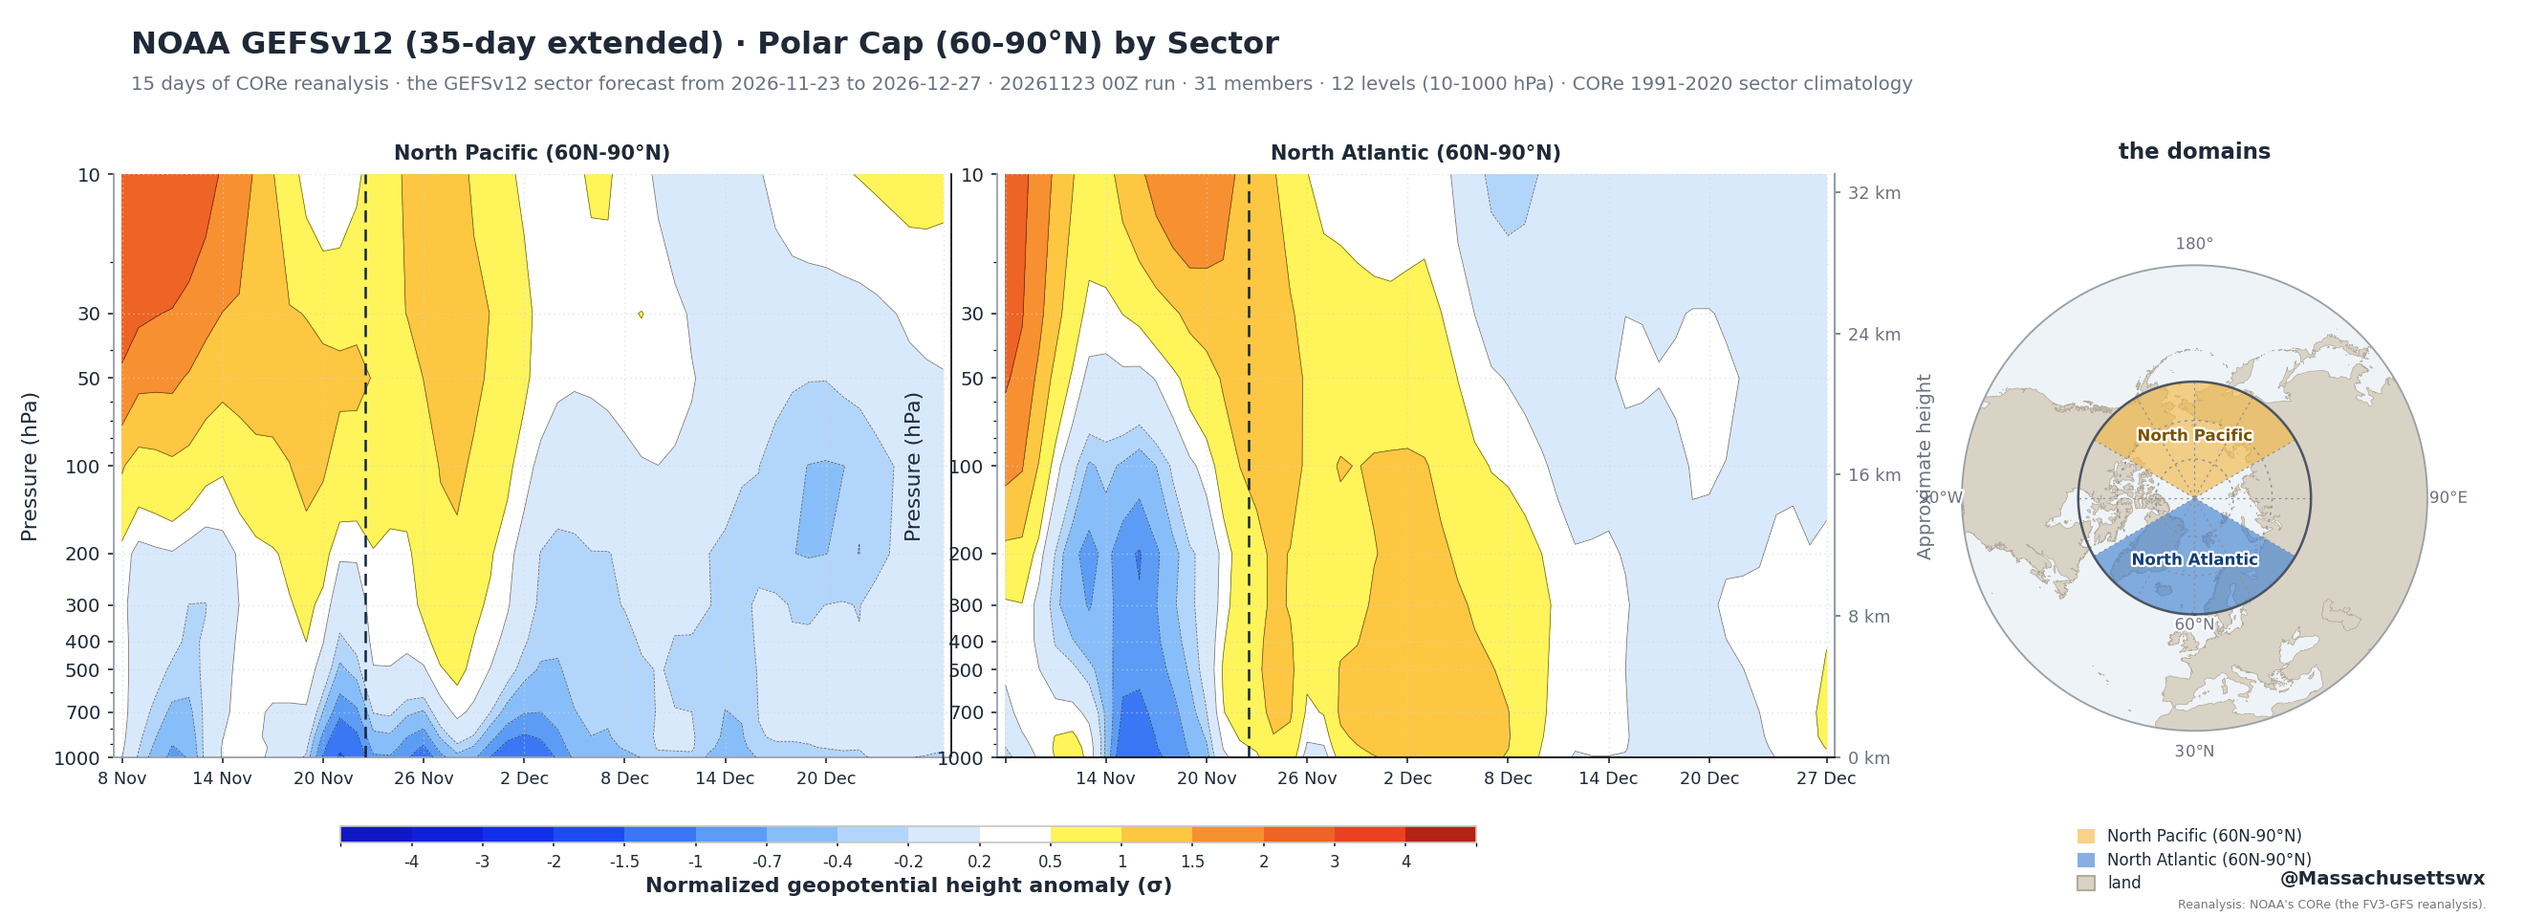
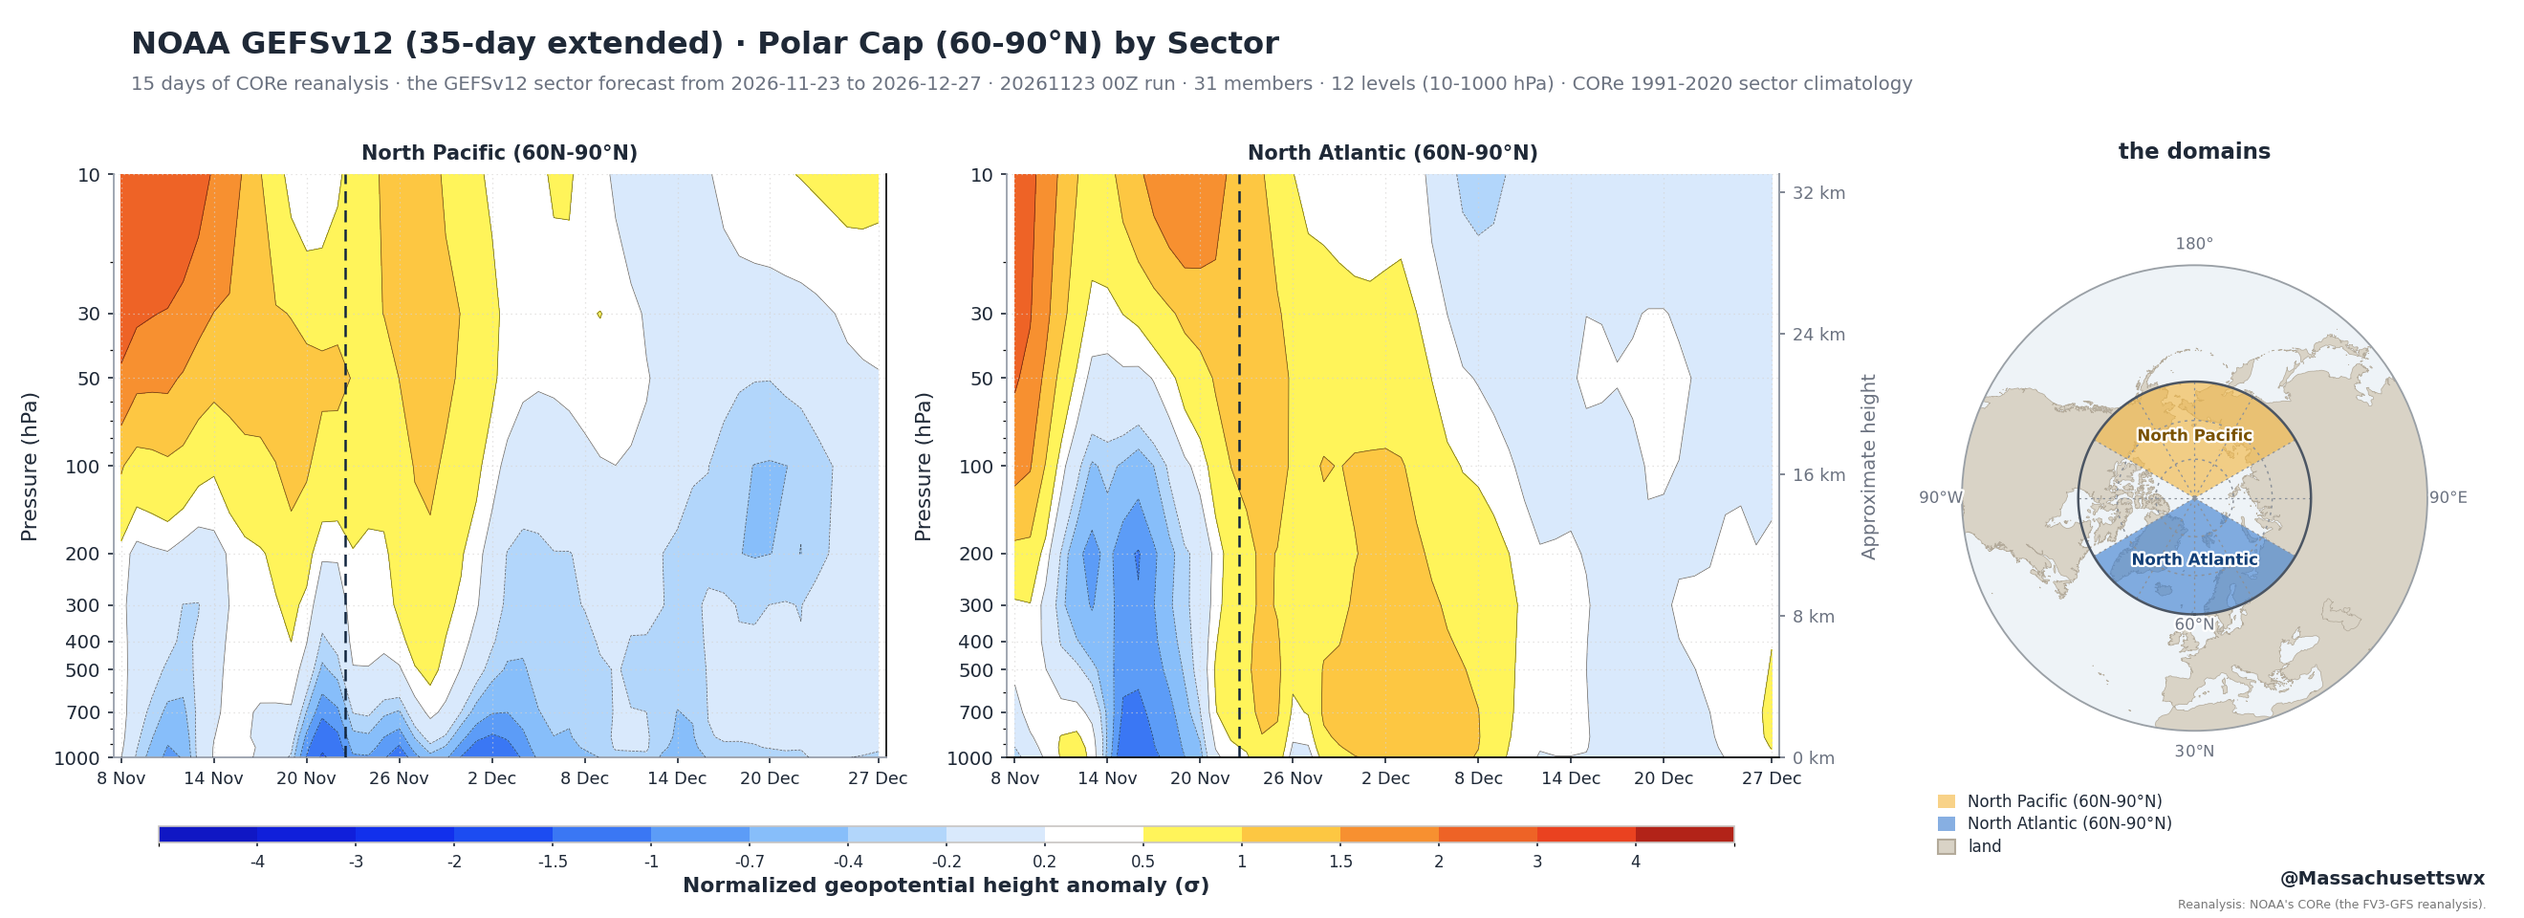
the polar cap: the EC46's by-sector chart, and the sector chart tidied

Changed region(s): [[0.0311, 0.1562, 0.7765, 0.9688], [0.7455, 0.8438, 0.9318, 0.9688], [0.7144, 0.6562, 0.7455, 0.6875]]

diff --git a/tools/publish_polar_ec46.py b/tools/publish_polar_ec46.py
@@ -75,9 +75,14 @@ OPERATIONAL_REPO = ("massachusettswx-weather", "seasonal-graphics")
 # the one product.  A constant, not a record of the last run.
 MODEL_ID = "ec46"
 NAME = "ECMWF EC46"
-# the one picture that makes up the product: the EC46 has no by-sector
-# chart, so the POLARSECTORS registry is left exactly as it is
+# the two pictures that make up the product: the polar-cap section and
+# the same section split into the North Pacific and the North Atlantic.
+# The EC46's by-sector chart was drawn on 24 Nov 2026 - the ECMWF's
+# sub-seasonal serves ten pressure levels and the reanalysis twelve, so
+# the chart is drawn on the ten they share - and the POLARSECTORS
+# registry now carries it.
 CHART = "polar_cap_ec46.png"
+SECTOR_CHART = "polar_sectors_ec46.png"
 # the EC46's window is 46 days, and the chart carries one point a day
 EXPECTED_DAYS = 45
 # the pages that carry the main registry (the snowfall page reads the
@@ -150,8 +155,13 @@ def add_inline(text, name, entry, version):
             e["init"] = entry["init"]
         if name == "POLARMODELS":
             e["file"] = "assets/polar/%s?v=%s" % (CHART, version)
+        if name == "POLARSECTORS":
+            e["file"] = "assets/polar/%s?v=%s" % (SECTOR_CHART, version)
         if isinstance(e.get("polar"), dict):
             e["polar"]["file"] = "assets/polar/%s?v=%s" % (CHART, version)
+        if isinstance(e.get("polar_sectors"), dict):
+            e["polar_sectors"]["file"] = ("assets/polar/%s?v=%s"
+                                          % (SECTOR_CHART, version))
         if e == cur:
             return text
         obj[MODEL_ID] = e
@@ -161,8 +171,15 @@ def add_inline(text, name, entry, version):
         e = {"id": MODEL_ID, "name": NAME,
              "file": "assets/polar/%s?v=%s" % (CHART, version),
              "caption": (entry.get("polar") or {}).get("caption", "")}
+    if name == "POLARSECTORS":
+        e = {"id": MODEL_ID, "name": NAME,
+             "file": "assets/polar/%s?v=%s" % (SECTOR_CHART, version),
+             "caption": (entry.get("polar_sectors") or {}).get("caption", "")}
     if isinstance(e.get("polar"), dict):
         e["polar"]["file"] = "assets/polar/%s?v=%s" % (CHART, version)
+    if isinstance(e.get("polar_sectors"), dict):
+        e["polar_sectors"]["file"] = ("assets/polar/%s?v=%s"
+                                      % (SECTOR_CHART, version))
     # the entry goes in where the builder would have put it: the polar-only
     # models are appended, and the EC46 sits in front of the GEFSv12 (the
     # builder appends the polar charts in the order of their file names).
@@ -313,6 +330,13 @@ def main():
     if not os.path.exists(drawn):
         say("   %s has no %s - NOTHING IS CHANGED." % (src, CHART))
         return 2
+    # the by-sector chart: the EC46 has one now (24 Nov 2026), and the
+    # page's "By sector" control is offered for a model that has it
+    drawn_sector = os.path.join(src, "docs", "assets", "polar", SECTOR_CHART)
+    if not os.path.exists(drawn_sector):
+        say("   %s has no %s - the by-sector chart would be missing."
+            % (src, SECTOR_CHART))
+        return 2
 
     # the version: a fresh one, so the browser fetches the new picture
     oldver = ""
@@ -323,6 +347,7 @@ def main():
     # the plan
     say("   it would put on the target:")
     say("     docs/assets/polar/%-28s (%s)" % (CHART, md5(drawn)))
+    say("     docs/assets/polar/%-28s (%s)" % (SECTOR_CHART, md5(drawn_sector)))
     say("     docs/data/models.json          the %s entry" % MODEL_ID)
     say("     docs/data/models_public.json   the same entry")
     for f in REGISTRY_PAGES:
@@ -339,7 +364,8 @@ def main():
     # else's work, and this change is not mixed with it
     st = git(target, "status", "--porcelain")
     dirty = [l for l in st.stdout.strip().split("\n") if l.strip()]
-    ours = ("docs/assets/polar/%s" % CHART, "docs/data/models.json",
+    ours = ("docs/assets/polar/%s" % CHART,
+            "docs/assets/polar/%s" % SECTOR_CHART, "docs/data/models.json",
             "docs/data/models_public.json") + \
         tuple(os.path.join("docs", f) for f in REGISTRY_PAGES) + \
         (os.path.join("docs", HOME_PAGE),)
@@ -389,6 +415,11 @@ def main():
             if t3 is None:
                 say("   %s carries no polar registry - NOTHING IS CHANGED." % f)
                 return 2
+            t3 = add_inline(t3, "POLARSECTORS", e, version)
+            if t3 is None:
+                say("   %s carries no by-sector registry - NOTHING IS CHANGED."
+                    % f)
+                return 2
             t3 = add_picker_option(t3)
             if t3 is None:
                 say("   %s has no polar picker - NOTHING IS CHANGED." % f)
@@ -434,6 +465,11 @@ def main():
     if os.path.realpath(drawn) != os.path.realpath(dst):
         shutil.copyfile(drawn, dst)
     written.append(os.path.join("docs", "assets", "polar", CHART))
+    dsts = os.path.join(docs, "assets", "polar", SECTOR_CHART)
+    os.makedirs(os.path.dirname(dsts), exist_ok=True)
+    if os.path.realpath(drawn_sector) != os.path.realpath(dsts):
+        shutil.copyfile(drawn_sector, dsts)
+    written.append(os.path.join("docs", "assets", "polar", SECTOR_CHART))
     json.dump(newreg, open(regp, "w"), indent=1)
     written.append(os.path.join("docs", "data", "models.json"))
     if newpub is not None:

diff --git a/plot_polar_sectors.py b/plot_polar_sectors.py
@@ -67,7 +67,7 @@ def load_sector_clim():
         if not os.path.exists(path):
             continue
         d = np.load(path, allow_pickle=True)
-        if "sector_data" not in d:
+        if "sector_data" not in d or "levels" not in d:
             continue
         out = {}
         for entry in d["sector_data"]:
@@ -76,11 +76,11 @@ def load_sector_clim():
                                       np.array(v["sigma"], float))
                              for m, v in months.items()}
         if out:
-            return out
+            return out, [int(x) for x in d["levels"]]
     nat = load_clim_native()
     if nat is not None and nat[1]:
-        return nat[1]
-    return None
+        return nat[1], [int(x) for x in (nat[0][1] if nat[0] else [])]
+    return None, []
 
 
 def load_recent_sectors():
@@ -108,8 +108,9 @@ def load_recent_sectors():
         out = {}
         for i, sec in enumerate(names):
             out[sec] = np.asarray(sd[i], float)
-        return times, out, product
-    return [], {}, "ERA5"
+        rlevs = [int(x) for x in (d["levels"] if "levels" in d else [])]
+        return times, out, product, rlevs
+    return [], {}, "ERA5", []
 
 
 def main(tag="gefsv12", label="NOAA GEFSv12", short=None, rebase="forecast"):
@@ -126,7 +127,7 @@ def main(tag="gefsv12", label="NOAA GEFSv12", short=None, rebase="forecast"):
     if not rec or not rec.get("sectors"):
         print("   the %s series carries no sector means" % tag)
         return None
-    clim = load_sector_clim()
+    clim, clim_levels = load_sector_clim()
     if not clim:
         print("   no sector climate yet - the CDS monthly means are still "
               "being fetched")
@@ -151,10 +152,31 @@ def main(tag="gefsv12", label="NOAA GEFSv12", short=None, rebase="forecast"):
 
     # The analysis in front of it, from the same reanalysis the cap section
     # is measured with.
-    rt, rv, _ana_name = load_recent_sectors()
+    rt, rv, _ana_name, rlevs = load_recent_sectors()
     rday = {}
     for i, t in enumerate(rt):
         rday.setdefault(t[:10], i)
+
+    # THE LEVELS THE THREE SIDES SHARE.  The ECMWF's sub-seasonal EC46
+    # serves ten levels and the reanalysis and the climate twelve, so the
+    # chart is drawn on the ten they all have - the same rule the cap
+    # section follows, so the two charts can be read against each other.
+    own_levels = list(levels)
+    common = [l for l in own_levels if (not rlevs or l in rlevs)
+              and (not clim_levels or l in clim_levels)]
+    if not common:
+        print("   the %s section has no level the three sides share" % tag)
+        return None
+    if len(common) != len(own_levels):
+        print("   the %s section is drawn on %d of the %d levels"
+              % (tag, len(common), len(own_levels)))
+    mkeep = [own_levels.index(l) for l in common]
+    rkeep = [rlevs.index(l) for l in common] if rlevs else list(mkeep)
+    levels = common
+    for name in list(fc.keys()):
+        fc[name] = (fc[name][0], fc[name][1][:, mkeep])
+    for name in list(rv.keys()):
+        rv[name] = rv[name][:, rkeep]
 
     first = min((v[0][0] for v in fc.values() if len(v[0])), default=None)
     ana_days = sorted(d for d in rday if first and d < first)[-ANA_DAYS:]
@@ -185,9 +207,11 @@ def main(tag="gefsv12", label="NOAA GEFSv12", short=None, rebase="forecast"):
         # at every month boundary and the step draws a seam across the
         # chart
         mlist = sorted(clim[name])
-        mmean = np.array([np.asarray(clim[name][m][0], float)[:len(levels)]
+        ccols = ([clim_levels.index(l) for l in levels]
+                 if clim_levels else list(range(len(levels))))
+        mmean = np.array([np.asarray(clim[name][m][0], float)[ccols]
                           for m in mlist])
-        msig = np.array([np.asarray(clim[name][m][1], float)[:len(levels)]
+        msig = np.array([np.asarray(clim[name][m][1], float)[ccols]
                          for m in mlist])
         # A SEASONAL model's mean state is not the observed climate, and by
         # the far end of a seven-month run it is thousands of m2/s2 below it
@@ -196,9 +220,9 @@ def main(tag="gefsv12", label="NOAA GEFSv12", short=None, rebase="forecast"):
         # the model's OWN hindcast climate, exactly as the cap section
         # does it, so the two charts stay in step.
         corr, note = polar_rebase.correction(
-            all_days, levels, {m: np.asarray(clim[name][m][0], float)[:len(levels)]
-                               for m in mlist}, mlist, sector=name, mode=rebase,
-            run=rec.get("run") or "")
+            all_days, levels,
+            {m: np.asarray(clim[name][m][0], float)[ccols] for m in mlist},
+            mlist, sector=name, mode=rebase, run=rec.get("run") or "")
         if corr is not None:
             vals = vals.copy()
             if rebase == "both":

diff --git a/polar_cap.py b/polar_cap.py
@@ -796,9 +796,17 @@ def plot_domain_map(ax):
         mpatches.Patch(facecolor="#d9d3c6", edgecolor="#b3aa9a",
                        label="land"),
     ]
-    leg = ax.legend(handles=handles, loc="lower center",
-                    bbox_to_anchor=(0.5, -0.22), fontsize=8.0, frameon=False,
-                    handlelength=1.1, handleheight=1.0, labelspacing=0.40)
+    # THE KEYS GO UNDER THE MAP, CLEAR OF THE WATERMARK AND OF THE
+    # ECMWF CREDIT.  Both of those belong in the bottom right - the ECMWF
+    # because it asks for its credit there, the watermark because that is
+    # the house's place for it - and the keys used to be printed over
+    # them.  The sectors are named on the map itself, so the keys are
+    # only a key.
+    leg = ax.legend(handles=handles, loc="lower left",
+                    bbox_to_anchor=(0.762, 0.052),
+                    bbox_transform=ax.figure.transFigure,
+                    fontsize=8.0, frameon=False, ncol=1,
+                    handlelength=1.1, handleheight=1.0, labelspacing=0.34)
     for t in leg.get_texts():
         t.set_color(C_TEXT)
     return ax
@@ -918,8 +926,14 @@ def plot_sector_sections(times, sectors, levels, out_path, title, subtitle,
     npan = len(names)
     map_w = 0.225
     map_x = 1.0 - 0.018 - map_w
-    panel_right = map_x - 0.030
-    gap = 0.018
+    # THE GAP BETWEEN THE PANELS IS WIDE ENOUGH FOR A DATE LABEL.  The
+    # labels used to be dropped at the inner edges, which made the two
+    # panels look as if they covered different periods - the left one
+    # appeared to end on 27 December and the right one to begin on 15
+    # November - when in fact every panel covers the same days.  Both
+    # panels now carry every date.
+    panel_right = map_x - 0.052
+    gap = 0.048
     left0 = 0.045
     width = (panel_right - left0 - (npan - 1) * gap) / npan
     axes = []
@@ -982,15 +996,10 @@ def plot_sector_sections(times, sectors, levels, out_path, title, subtitle,
                 del idx[j + 1]
         ax.set_xticks(idx)
         labs = [_short_date(times[k]) for k in idx]
-        # A tick label centred on its tick hangs half outside the panel, so
-        # the last date of one panel ran into the first date of the next.
-        # The panels share one time axis, so the outer panels carry the
-        # start and the end date and the inner ones leave them out.  The
-        # TICKS stay on every panel, so the gridlines still line up.
-        if i > 0:
-            labs[0] = ""
-        if i < npan - 1:
-            labs[-1] = ""
+        # EVERY PANEL CARRIES EVERY DATE.  The panels share one time
+        # axis, and a reader who has to work out which panel's axis is
+        # offset cannot read the two sectors against each other - which
+        # is the whole reason for drawing them side by side.
         ax.set_xticklabels(labs, fontsize=8.5, color=C_TEXT)
         ax.set_xlim(-0.5, n - 0.5)
 
@@ -1042,7 +1051,13 @@ def plot_sector_sections(times, sectors, levels, out_path, title, subtitle,
 
     sm = ScalarMappable(norm=norm_c, cmap=cmap)
     sm.set_array([])
-    cax = fig.add_axes([0.135, 0.082, 0.45, 0.018])
+    # THE COLOUR BAR UNDER THE PANELS, not floating in the middle of the
+    # bottom band: it belongs to the two panels above it, and it is drawn
+    # from the first panel's left edge to the last one's right edge so
+    # that it reads as one scale for both of them.
+    bar_x = left0 + 0.018
+    bar_w = (panel_right - left0) - 0.036
+    cax = fig.add_axes([bar_x, 0.082, bar_w, 0.018])
     cb = fig.colorbar(sm, cax=cax, orientation="horizontal",
                       boundaries=edges, ticks=edges[1:-1], extend="neither",
                       spacing="uniform")
@@ -1052,7 +1067,8 @@ def plot_sector_sections(times, sectors, levels, out_path, title, subtitle,
     cb.outline.set_edgecolor("#c8c5c2")
     cb.outline.set_linewidth(0.8)
     cb.ax.tick_params(length=2, colors=C_TEXT)
-    fig.text(0.36, 0.034, "Normalized geopotential height anomaly (\u03c3)",
+    fig.text(bar_x + bar_w / 2.0, 0.034,
+             "Normalized geopotential height anomaly (\u03c3)",
              fontsize=10.5, ha="center", va="center", fontweight="bold",
              color=C_TEXT)
 

diff --git a/tools/test_export_map.py b/tools/test_export_map.py
@@ -202,6 +202,17 @@ def main():
         EX.write_index(tags, state)
         with open(tags_p, "w") as f:
             f.write(tags_backup)
+        # THE SYNTHETIC RUN'S ARCHIVE GOES TOO: the exporter now keeps a
+        # copy of every run under docs/data/maps/<tag>/<init>/, and a test
+        # model left in the published data directory is a picker entry
+        # that points at a model the site does not have.
+        adir = os.path.join(EX.OUT, "maps", TAG)
+        if os.path.isdir(adir):
+            shutil.rmtree(adir)
+            up = os.path.dirname(adir)
+            if os.path.isdir(up) and not os.listdir(up):
+                os.rmdir(up)
+        EX.write_archive_index()
         print("cleaned up")
 
     print("")

diff --git a/notes/STATE.md b/notes/STATE.md
@@ -651,6 +651,78 @@ site (GEFSv12, EC46) - the live PNGs are byte for byte the repo's.
 the polar cap box) - to size the ERA5-vs-GEFS gap with real numbers
 before the owner is asked to choose.  The poller is
 `/workspace/poll_era5.py`; the result lands in `/workspace/era5_recent.grib`.
+**THAT JOB FAILED** at 10:15Z without a stated reason; a smaller retry
+(15-18 Nov) is job `7aaad44b-11f4-4d7c-8a34-4de3c81878d3`, accepted
+19:07Z.  The CDS's queue is slow - the seasonal job queued at 18:46Z
+was still "accepted" half an hour later.
+
+## The maps page: an ARCHIVE picker, and comparing two runs (24 Nov 2026, 19:10 UTC)
+
+**THE OWNER'S WORD:** *"add an archives dropdown selection that users
+can go back to previous runs and compare to the current"*.
+
+**THE FEATURE IS ON THE DEVELOPMENT SITE** (`/maps.html`): a picker
+labelled **Compare with**, beside the model picker.  It lists the runs
+that model has - the current one first, then the earlier ones - and
+choosing an earlier one draws **the change between the two runs**: the
+current run minus that run, over the same valid month.
+
+* **THE DIFFERENCE IS COMPUTED IN THE BROWSER**, not by a second texture
+  and a new shader mode: the two rasters are fetched, the difference is
+  worked out in the field's own units and uploaded as an ordinary field.
+  The renderer needs no change at all for the comparison itself.
+* **THE SCALES.**  The anomaly's difference is on **+-2 sigma**; the
+  totals' difference is on **+-5 inches on a signed log scale**, because
+  a snowfall difference is nearly always a few hundredths of an inch and
+  a linear scale would show nothing.
+* **THE COLOUR TABLE.**  The comparison is drawn with the **anomaly's
+  diverging table** (brown = less snow than the earlier run said, teal =
+  more), NOT with the totals' ladder - whose deep end is a magenta that
+  means "a lot of snow", not "a lot of change".  This was a real bug:
+  the map and its own legend disagreed until the mode was fixed.
+* **THE MONTHS ARE MATCHED BY THEIR LABEL, NOT THEIR INDEX.**  The
+  November run's first month is December 2026 and the October run's
+  first month is November 2026, so the same index is a different month.
+  The two runs overlap from the second month of the older one.
+* **THE RUN TOTAL CANNOT BE COMPARED** (one run's total covers its own
+  months and the other's covers a different set), so choosing an archive
+  moves the map to the first month the two runs share.
+
+**THE ARCHIVE ITSELF:**
+* `export_snow_map.py` now writes `archive_run()` and
+  `write_archive_index()`: every export keeps a copy of the run's
+  manifest and rasters under `docs/data/maps/<tag>/<init>/`, and
+  `docs/data/maps_index.json` lists every run - the current one (its
+  manifest at the top of `docs/data`) and the archived ones.
+* `tools/build_map_archive.py` builds an archived run from an EARLIER
+  init: it fetches that init from the C3S archive (the same route the
+  pipeline uses), takes the model's own hindcast climate from the run on
+  disk (the climate does not change from one init to the next), and
+  exports it against a shadow tree (`MAP_MDIR`, `MAP_OUT`, `MAP_STATE`
+  point the exporter at it).
+* **THE FIRST ARCHIVED RUN IS THE UKMO's OCTOBER 2026 INIT** - built,
+  published and working on the development site.
+
+**THE NARROW PATH:** `tools/publish_maps_page.py` (the general publisher
+is off, and the maps page is part of the general build, so it needed a
+path of its own).  It carries the page, the three scripts, the model
+index, the index of runs and the archive - and nothing else.  **THE
+OPERATIONAL SITE HAS NO MAPS PAGE AT ALL** (404), so nothing there was
+touched and nothing there needs the owner's word for this feature.
+
+**THE TWO TRAPS OF THIS AFTERNOON:**
+1. **A NARROW PUBLISHER'S FILE LIST MUST BE IN THE TARGET'S PATHS.**
+   The first version used the source's own paths and put a copy of the
+   page at the TOP of the repository (`maps.html`, `data/maps/**`).
+   The list is relative to the source (`docs/`) and the staging is
+   relative to the target (`docs/`) - and the source and the target can
+   be the SAME tree (the sandbox mounts one tree under two paths), so
+   the copy is skipped when `os.path.realpath` says they are the same
+   file.
+2. **THE TEST'S CLEAN-UP MUST REBUILD THE INDEX, NOT RESTORE IT.**  A
+   saved copy of `maps_index.json` can be the TEST's own, and the
+   development site was briefly serving a "TEST MODEL" index.  The
+   index is now rebuilt from the manifests that are actually there.
 
 ## The rules that are not negotiable
 
